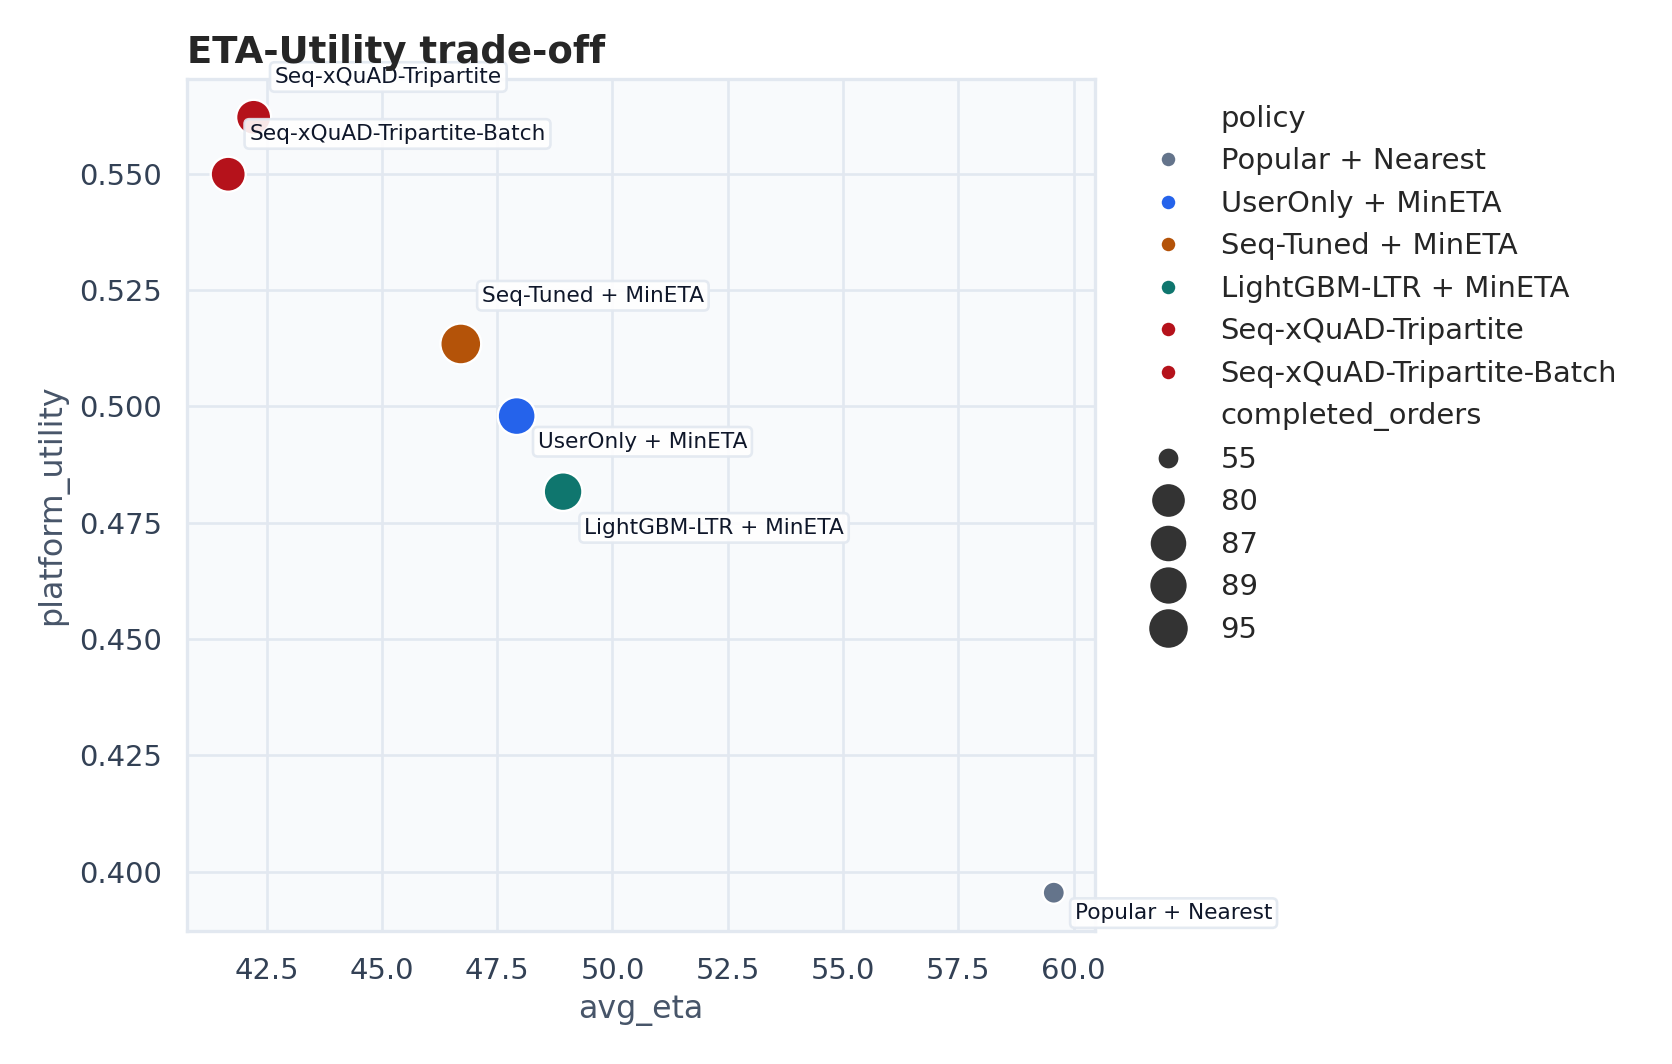
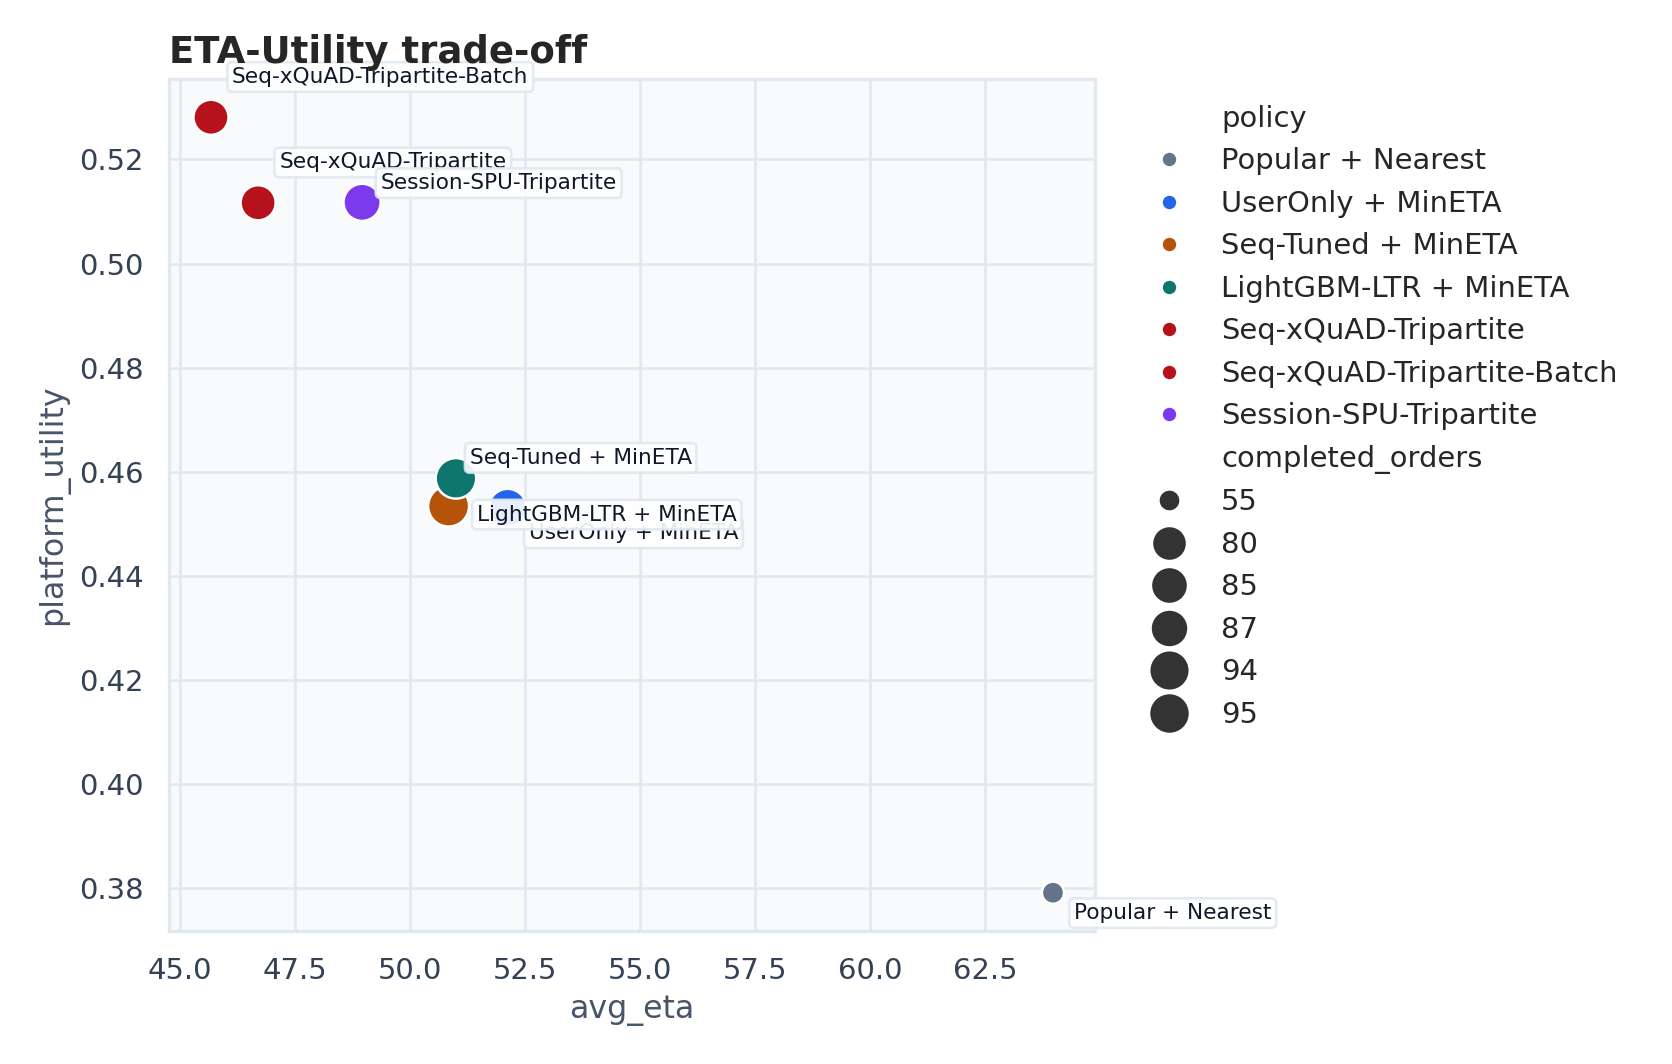
Add LaDe rider calibration support and refresh results

diff --git a/foodflow/rider_data.py b/foodflow/rider_data.py
@@ -17,6 +17,46 @@ class RiderCalibration:
     reliability_std: float = 0.05
 
 
+CANONICAL_TASK_COLUMNS = {"accept_time", "finish_time", "pickup_lng", "pickup_lat", "delivery_lng", "delivery_lat"}
+LADE_COLUMN_ALIASES = {
+    "finish_time": ("delivery_time", "delivery_gps_time"),
+    "pickup_lng": ("accept_gps_lng",),
+    "pickup_lat": ("accept_gps_lat",),
+    "delivery_lng": ("delivery_gps_lng", "lng"),
+    "delivery_lat": ("delivery_gps_lat", "lat"),
+}
+
+
+def _first_existing_column(frame: pd.DataFrame, names: tuple[str, ...]) -> str | None:
+    for name in names:
+        if name in frame.columns:
+            return name
+    return None
+
+
+def normalize_delivery_tasks(tasks: pd.DataFrame) -> pd.DataFrame:
+    """Return delivery tasks in FoodFlow's canonical rider calibration schema.
+
+    LaDe delivery CSVs expose task-accept/task-finish events as
+    accept_gps_* and delivery_gps_* columns. Keeping the mapping here lets the
+    CLI consume LaDe directly without mutating the source dataset.
+    """
+    if CANONICAL_TASK_COLUMNS.issubset(tasks.columns):
+        return tasks.copy()
+
+    out = pd.DataFrame(index=tasks.index)
+    if "courier_id" in tasks.columns:
+        out["courier_id"] = tasks["courier_id"]
+    elif "postman_id" in tasks.columns:
+        out["courier_id"] = tasks["postman_id"]
+
+    for target in CANONICAL_TASK_COLUMNS:
+        source = target if target in tasks.columns else _first_existing_column(tasks, LADE_COLUMN_ALIASES.get(target, ()))
+        if source is not None:
+            out[target] = tasks[source]
+    return out
+
+
 def _minutes_between(start: pd.Series, finish: pd.Series) -> pd.Series:
     start_numeric = pd.to_numeric(start, errors="coerce")
     finish_numeric = pd.to_numeric(finish, errors="coerce")
@@ -29,15 +69,42 @@ def _minutes_between(start: pd.Series, finish: pd.Series) -> pd.Series:
     return (finish_dt - start_dt).dt.total_seconds() / 60.0
 
 
+def _relative_minutes(values: pd.Series) -> pd.Series:
+    numeric = pd.to_numeric(values, errors="coerce")
+    if numeric.notna().any():
+        return numeric.astype(float)
+    dt = pd.to_datetime(values, errors="coerce")
+    if not dt.notna().any():
+        return numeric.astype(float)
+    return (dt - dt.min()).dt.total_seconds() / 60.0
+
+
+def _active_loads_at_accept(frame: pd.DataFrame) -> list[float]:
+    if "courier_id" not in frame.columns:
+        return []
+    starts = _relative_minutes(frame["accept_time"])
+    finishes = _relative_minutes(frame["finish_time"])
+    intervals = pd.DataFrame({"courier_id": frame["courier_id"], "start": starts, "finish": finishes})
+    intervals = intervals.replace([np.inf, -np.inf], np.nan).dropna()
+    intervals = intervals[intervals["finish"] > intervals["start"]]
+    loads: list[float] = []
+    for _, group in intervals.groupby("courier_id", sort=False):
+        active_finishes: list[float] = []
+        for row in group.sort_values("start").itertuples(index=False):
+            active_finishes = [finish for finish in active_finishes if finish > float(row.start)]
+            loads.append(float(len(active_finishes)))
+            active_finishes.append(float(row.finish))
+    return loads
+
+
 def estimate_rider_calibration(tasks: pd.DataFrame) -> RiderCalibration:
     if tasks.empty:
         return RiderCalibration()
-    required = {"accept_time", "finish_time", "pickup_lng", "pickup_lat", "delivery_lng", "delivery_lat"}
-    missing = required - set(tasks.columns)
+    frame = normalize_delivery_tasks(tasks)
+    missing = CANONICAL_TASK_COLUMNS - set(frame.columns)
     if missing:
         raise ValueError(f"Delivery task data missing required columns: {sorted(missing)}")
 
-    frame = tasks.copy()
     durations = _minutes_between(frame["accept_time"], frame["finish_time"])
     distances = frame.apply(
         lambda row: haversine_km(
@@ -55,10 +122,15 @@ def estimate_rider_calibration(tasks: pd.DataFrame) -> RiderCalibration:
 
     speed = (valid["distance"] / valid["duration"] * 60.0).clip(lower=8.0, upper=45.0)
     service_minutes = valid["duration"].clip(lower=5.0, upper=90.0)
+    load_samples = _active_loads_at_accept(frame)
     if "courier_id" in frame.columns:
-        task_counts = frame.groupby("courier_id").size()
-        initial_load_lambda = float(np.clip(task_counts.mean() / 3.0, 0.2, 2.5))
-        reliability_std = float(np.clip(task_counts.std(ddof=0) / max(task_counts.mean(), 1.0) * 0.05, 0.02, 0.10))
+        if load_samples:
+            initial_load_lambda = float(np.clip(np.mean(load_samples), 0.2, 2.5))
+            reliability_std = float(np.clip(np.std(load_samples) * 0.04 + 0.02, 0.02, 0.10))
+        else:
+            task_counts = frame.groupby("courier_id").size()
+            initial_load_lambda = float(np.clip(task_counts.mean() / 3.0, 0.2, 2.5))
+            reliability_std = float(np.clip(task_counts.std(ddof=0) / max(task_counts.mean(), 1.0) * 0.05, 0.02, 0.10))
     else:
         initial_load_lambda = 0.6
         reliability_std = 0.05

diff --git a/tests/test_rider_calibration.py b/tests/test_rider_calibration.py
@@ -49,6 +49,74 @@ def test_estimate_rider_calibration_from_delivery_tasks():
     assert 0.72 <= calibration.reliability_mean <= 0.99
 
 
+def test_estimate_rider_calibration_accepts_lade_delivery_schema():
+    tasks = pd.DataFrame(
+        [
+            {
+                "order_id": 1,
+                "city": "cq",
+                "courier_id": 101,
+                "accept_time": "2021-03-18 12:00:00",
+                "accept_gps_lng": 116.400,
+                "accept_gps_lat": 39.900,
+                "delivery_time": "2021-03-18 12:24:00",
+                "delivery_gps_lng": 116.430,
+                "delivery_gps_lat": 39.920,
+            },
+            {
+                "order_id": 2,
+                "city": "cq",
+                "courier_id": 101,
+                "accept_time": "2021-03-18 12:10:00",
+                "accept_gps_lng": 116.410,
+                "accept_gps_lat": 39.905,
+                "delivery_time": "2021-03-18 12:45:00",
+                "delivery_gps_lng": 116.440,
+                "delivery_gps_lat": 39.925,
+            },
+            {
+                "order_id": 3,
+                "city": "cq",
+                "courier_id": 102,
+                "accept_time": "2021-03-18 13:00:00",
+                "accept_gps_lng": 116.390,
+                "accept_gps_lat": 39.910,
+                "delivery_time": "2021-03-18 13:20:00",
+                "delivery_gps_lng": 116.420,
+                "delivery_gps_lat": 39.930,
+            },
+        ]
+    )
+
+    calibration = estimate_rider_calibration(tasks)
+
+    assert calibration.speed_kmph > 0
+    assert calibration.service_minutes > 0
+    assert calibration.initial_load_lambda > 0
+    assert 0.72 <= calibration.reliability_mean <= 0.99
+
+
+def test_initial_load_uses_task_overlap_not_total_history_volume():
+    tasks = pd.DataFrame(
+        [
+            {
+                "courier_id": "r1",
+                "accept_time": i * 60,
+                "finish_time": i * 60 + 20,
+                "pickup_lng": 116.400,
+                "pickup_lat": 39.900,
+                "delivery_lng": 116.410,
+                "delivery_lat": 39.910,
+            }
+            for i in range(30)
+        ]
+    )
+
+    calibration = estimate_rider_calibration(tasks)
+
+    assert calibration.initial_load_lambda < 1.0
+
+
 def test_generate_riders_accepts_calibration_parameters():
     merchants = pd.DataFrame(
         [

diff --git a/foodflow/audit.py b/foodflow/audit.py
@@ -83,7 +83,7 @@ def audit_data(
         "processed_train_orders": processed_train,
         "train_sample_fraction": sample_fraction,
         "train_mode": "full" if uses_full_train else "sampled",
-        "rider_data": "synthetic proxy; TRD has no full rider state or dispatch records",
+        "rider_data": "default synthetic proxy; LaDe delivery CSV can calibrate rider parameters, but TRD has no full rider state or dispatch records",
     }
 
     ensure_dir(output.parent)
@@ -108,7 +108,7 @@ def _write_markdown_audit(audit: dict[str, object], markdown: Path) -> None:
 - 原始训练订单数：`{audit["raw_train_orders"]}`
 - 处理后训练订单数：`{audit["processed_train_orders"]}`
 - 训练订单使用比例：`{sample_fraction:.4f}`
-- 骑手数据边界：TRD 不包含完整骑手状态与派单记录，本项目使用固定 seed 合成 proxy。
+- 骑手数据边界：TRD 不包含完整骑手状态与派单记录；默认使用固定 seed 合成 proxy，也可用 LaDe delivery CSV 校准骑手速度、服务时长和负载分布。
 
 如果 `train_mode` 为 `sampled`，说明当前结果使用真实 TRD 数据的固定 seed 抽样版本；如果为 `full`，说明当前处理后的训练订单覆盖完整 `orders_train.txt`。
 

diff --git a/foodflow/cli.py b/foodflow/cli.py
@@ -53,7 +53,7 @@ def build_parser() -> argparse.ArgumentParser:
         "--rider-tasks",
         type=Path,
         default=None,
-        help="Optional real delivery task CSV used to calibrate synthetic rider speed, service time, and load.",
+        help="Optional delivery task CSV, including LaDe delivery files, used to calibrate synthetic rider speed, service time, and load.",
     )
 
     p = sub.add_parser("figures")

diff --git a/tests/test_recommenders.py b/tests/test_recommenders.py
@@ -1,0 +1,10 @@
+from foodflow import recommenders
+
+
+def test_build_recommenders_uses_unique_name_for_lightgbm_fallback(monkeypatch):
+    monkeypatch.setattr(recommenders, "lightgbm_available", lambda: False)
+
+    names = [model.name for model in recommenders.build_recommenders(seed=7)]
+
+    assert len(names) == len(set(names))
+    assert "Seq-Tuned (LightGBM fallback)" in names

diff --git a/foodflow/recommenders.py b/foodflow/recommenders.py
@@ -869,6 +869,7 @@ def build_recommenders(seed: int = 42) -> list[BaseRecommender]:
         learned_seq_recommender = LightGBMRankerRecommender(seed=seed)
     else:
         learned_seq_recommender = SeqTunedRecommender()
+        learned_seq_recommender.name = "Seq-Tuned (LightGBM fallback)"
     return [
         PopularRecommender(),
         BPRMFRecommender(seed=seed),

diff --git a/foodflow/figures.py b/foodflow/figures.py
@@ -17,6 +17,7 @@ HIGHLIGHT = {
     "Seq-Tuned": "#B45309",
     "LightGBM-LTR": "#0F766E",
     "Seq-xQuAD-Tripartite": "#B5121B",
+    "Session-SPU-Tripartite": "#7C3AED",
 }
 DEFAULT_COLOR = "#CBD5E1"
 TEXT_COLOR = "#0F172A"

diff --git a/README.md b/README.md
@@ -23,7 +23,7 @@
 - 时间：2021-03-01 至 2021-03-28
 - 使用文件：用户、商家、菜品、训练订单、测试订单和测试标签
 
-项目默认下载 TRD 的 txt 文件，不下载约 1.8GB 的 `graph.bin`，因为核心实现不依赖 DGL 图文件。TRD 不包含完整骑手状态和真实派单记录，因此骑手位置、在线状态、负载、可靠性和收入为固定 seed 合成 proxy，仅用于履约仿真，不声称为真实骑手数据。若有外部末端配送任务 CSV，可通过 `--rider-tasks` 校准骑手速度、服务时长和负载分布。
+项目默认下载 TRD 的 txt 文件，不下载约 1.8GB 的 `graph.bin`，因为核心实现不依赖 DGL 图文件。TRD 不包含完整骑手状态和真实派单记录，因此骑手位置、在线状态、负载、可靠性和收入为固定 seed 合成 proxy，仅用于履约仿真，不声称为真实骑手数据。若有 LaDe 等公开末端配送任务 CSV，可通过 `--rider-tasks` 校准骑手速度、服务时长和负载分布。
 
 ## 方法概览
 
@@ -132,11 +132,13 @@ make download preprocess eval simulate audit figures report
 python -m foodflow.cli simulate --quiet
 ```
 
-如果有外部配送任务数据，可校准骑手仿真参数：
+如果有 LaDe 末端配送任务数据，可校准骑手仿真参数：
 
 ```bash
-make simulate-calibrated RIDER_TASKS=/path/to/delivery_tasks.csv
+make simulate-calibrated RIDER_TASKS=/path/to/lade_delivery.csv
 ```
+
+`--rider-tasks` 同时支持项目通用字段 `courier_id,accept_time,finish_time,pickup_lng,pickup_lat,delivery_lng,delivery_lat`，以及 LaDe delivery 文件中的 `courier_id,accept_time,accept_gps_lng,accept_gps_lat,delivery_time,delivery_gps_lng,delivery_gps_lat`。LaDe 不是外卖平台数据，因此只用于骑手速度、任务时长、任务重叠负载和可靠性 proxy 的估计，不参与用户-商家推荐训练。
 
 如果要使用完整 TRD 训练集：
 
@@ -237,16 +239,19 @@ python3 scripts/prepare_notebooklm_pack.py
 
 离线推荐中，`Seq-Tuned` 的 Recall@20 最高，为 `0.4675`，NDCG@20 为 `0.3652`，HitRate@20 为 `0.6267`。`Seq-xQuAD-Tripartite` 的离线准确性低于纯用户侧序列模型，但能改善后续履约表现。
 
-动态履约仿真中，`Seq-xQuAD-Tripartite` 取得最低平均 ETA、最低超时率和最高平台综合效用：
+动态履约仿真中，`Seq-xQuAD-Tripartite-Batch` 取得最低平均 ETA、最低超时率和最高平台综合效用；新增的 `Session-SPU-Tripartite` 在引入 session 点击和菜品 SPU 信号后，平台效用与三方重排主线接近：
 
 | 策略 | Avg ETA | Timeout Rate | Platform Utility |
 |---|---:|---:|---:|
-| Popular + Nearest | 84.71 | 0.7903 | 0.3365 |
-| UserOnly + MinETA | 55.33 | 0.6701 | 0.4831 |
-| Seq-Tuned + MinETA | 54.74 | 0.7320 | 0.4664 |
-| Seq-xQuAD-Tripartite | 50.33 | 0.5319 | 0.5264 |
+| Popular + Nearest | 63.98 | 0.6364 | 0.3791 |
+| UserOnly + MinETA | 52.13 | 0.7011 | 0.4531 |
+| Seq-Tuned + MinETA | 50.84 | 0.7158 | 0.4534 |
+| LightGBM-LTR + MinETA | 51.00 | 0.7021 | 0.4587 |
+| Seq-xQuAD-Tripartite | 46.70 | 0.5250 | 0.5117 |
+| Seq-xQuAD-Tripartite-Batch | 45.68 | 0.4500 | 0.5281 |
+| Session-SPU-Tripartite | 48.96 | 0.5412 | 0.5118 |
 
-结论不是“单一模型在所有指标上最优”，而是：`Seq-Tuned` 取得最强离线推荐准确性；`Seq-xQuAD-Tripartite` 牺牲一部分离线准确性，换取更低超时率和更高平台综合效用，更符合外卖平台的多主体优化目标。
+结论不是“单一模型在所有指标上最优”，而是：`Seq-Tuned` 取得最强离线推荐准确性；`Seq-xQuAD-Tripartite-Batch` 牺牲一部分离线准确性，换取更低超时率和更高平台综合效用；`Session-SPU-Tripartite` 证明 TRD 的 session 点击和菜品 SPU 信号可以接入三方重排链路。
 
 ## 图表示例
 
@@ -258,7 +263,7 @@ python3 scripts/prepare_notebooklm_pack.py
 
 ## 局限与说明
 
-- 骑手数据为合成 proxy，不能替代真实派单数据。
+- 骑手数据默认为合成 proxy；如提供 LaDe delivery CSV，可校准速度、服务时长和负载分布，但 LaDe 仍不能替代真实外卖派单数据。
 - BPR-MF 是轻量实现，未追求大规模深度模型最优性能。
 - 项目没有实现 LightGCN、KGAT 或完整知识图谱模型，这些作为调研背景和后续增强方向。
 - 平台效用权重是课程项目中的解释性设置，后续可做权重敏感性分析。

diff --git a/docs/ALGORITHM_RIDER_IMPROVEMENTS.md b/docs/ALGORITHM_RIDER_IMPROVEMENTS.md
@@ -11,20 +11,28 @@
 
 ## 2. 新增骑手校准路径
 
-TRD 不包含真实骑手状态或派单记录，因此 FoodFlow 仍然把骑手侧定义为仿真。新增的骑手校准接口允许使用外部末端配送任务 CSV 来估计仿真参数，包括：
+TRD 不包含真实骑手状态或派单记录，因此 FoodFlow 仍然把骑手侧定义为仿真。新增的骑手校准接口允许使用 LaDe 等公开末端配送任务 CSV 来估计仿真参数，包括：
 
 - 骑手平均速度 `speed_kmph`
 - 单任务服务时长 `service_minutes`
-- 初始负载强度 `initial_load_lambda`
+- 初始负载强度 `initial_load_lambda`，由同一配送员 task-accept 到 task-finish 区间的重叠任务数估计
 - 可靠性均值和波动
 
-外部 CSV 至少需要这些列：
+外部 CSV 可使用项目通用字段：
 
 ```text
 courier_id,accept_time,finish_time,pickup_lng,pickup_lat,delivery_lng,delivery_lat
 ```
 
 `accept_time` 和 `finish_time` 可以是数值分钟，也可以是可由 pandas 解析的时间字符串。
+
+也可以直接使用 LaDe delivery 文件字段：
+
+```text
+courier_id,accept_time,accept_gps_lng,accept_gps_lat,delivery_time,delivery_gps_lng,delivery_gps_lat
+```
+
+其中 `accept_gps_*` 作为任务开始位置，`delivery_gps_*` 作为任务完成位置，`delivery_time` 映射为 `finish_time`。
 
 ## 3. 使用方式
 
@@ -37,7 +45,7 @@ make simulate
 使用外部配送任务数据校准骑手仿真：
 
 ```bash
-make simulate-calibrated RIDER_TASKS=/path/to/delivery_tasks.csv
+make simulate-calibrated RIDER_TASKS=/path/to/lade_delivery.csv
 ```
 
 等价 CLI：
@@ -46,7 +54,7 @@ make simulate-calibrated RIDER_TASKS=/path/to/delivery_tasks.csv
 python -m foodflow.cli simulate \
   --processed-dir data/processed \
   --output outputs/results/simulation_metrics_calibrated.csv \
-  --rider-tasks /path/to/delivery_tasks.csv
+  --rider-tasks /path/to/lade_delivery.csv
 ```
 
 输出表会额外包含 `rider_speed_kmph` 与 `rider_service_minutes`，便于在报告中说明仿真参数来自固定默认值还是外部数据校准。
@@ -55,4 +63,4 @@ python -m foodflow.cli simulate \
 
 这项增强不能把 TRD 变成真实派单数据。更准确的表述是：
 
-> 推荐侧使用真实 TRD 订单与点击/菜品信号；骑手侧仍是仿真，但可用公开末端配送任务数据校准速度、服务时长和负载分布。
+> 推荐侧使用真实 TRD 订单与点击/菜品信号；骑手侧仍是仿真，但可用 LaDe 等公开末端配送任务数据校准速度、服务时长和负载分布。LaDe 不是外卖平台数据，因此不能声称获得了真实外卖骑手派单记录。

diff --git a/docs/DATA_AUDIT.md b/docs/DATA_AUDIT.md
@@ -7,7 +7,7 @@
 - 原始训练订单数：`1068495`
 - 处理后训练订单数：`1068495`
 - 训练订单使用比例：`1.0000`
-- 骑手数据边界：TRD 不包含完整骑手状态与派单记录，本项目使用固定 seed 合成 proxy。
+- 骑手数据边界：TRD 不包含完整骑手状态与派单记录；默认使用固定 seed 合成 proxy，也可用 LaDe delivery CSV 校准骑手速度、服务时长和负载分布。
 
 如果 `train_mode` 为 `sampled`，说明当前结果使用真实 TRD 数据的固定 seed 抽样版本；如果为 `full`，说明当前处理后的训练订单覆盖完整 `orders_train.txt`。
 
